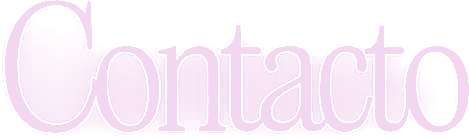
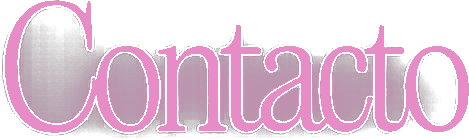
Clean up Contacto glow color, shrink portrait pair photos
- Recolored the Contacto graphic from a pale near-white pink to a
  properly saturated pink, and lightened the drop-shadow glow so it
  no longer reads as a whitish halo behind the letters.
- Slightly reduced the portrait-pair aspect ratio for a lighter,
  more refined feel right after the fashion grid.

diff --git a/styles.css b/styles.css
@@ -203,7 +203,7 @@ a{color:inherit;text-decoration:none;}
 .portrait-pair{
   display:grid; grid-template-columns:1fr 1fr; gap:6px; background:var(--white);
 }
-.portrait-pair .g-cell{ aspect-ratio: 3/4; }
+.portrait-pair .g-cell{ aspect-ratio: 3/3.5; }
 
 /* ---------- BRANDS ---------- */
 .brands-title{
@@ -294,9 +294,8 @@ a{color:inherit;text-decoration:none;}
   height: clamp(2.4rem, 6vw, 3.8rem);
   width:auto;
   filter:
-    drop-shadow(0 0 6px rgba(243,214,240,.55))
-    drop-shadow(0 0 18px rgba(243,214,240,.45))
-    drop-shadow(0 0 36px rgba(243,214,240,.3));
+    drop-shadow(0 0 5px rgba(232,140,200,.5))
+    drop-shadow(0 0 14px rgba(232,140,200,.35));
 }
 .contact__buttons{
   display:grid;
